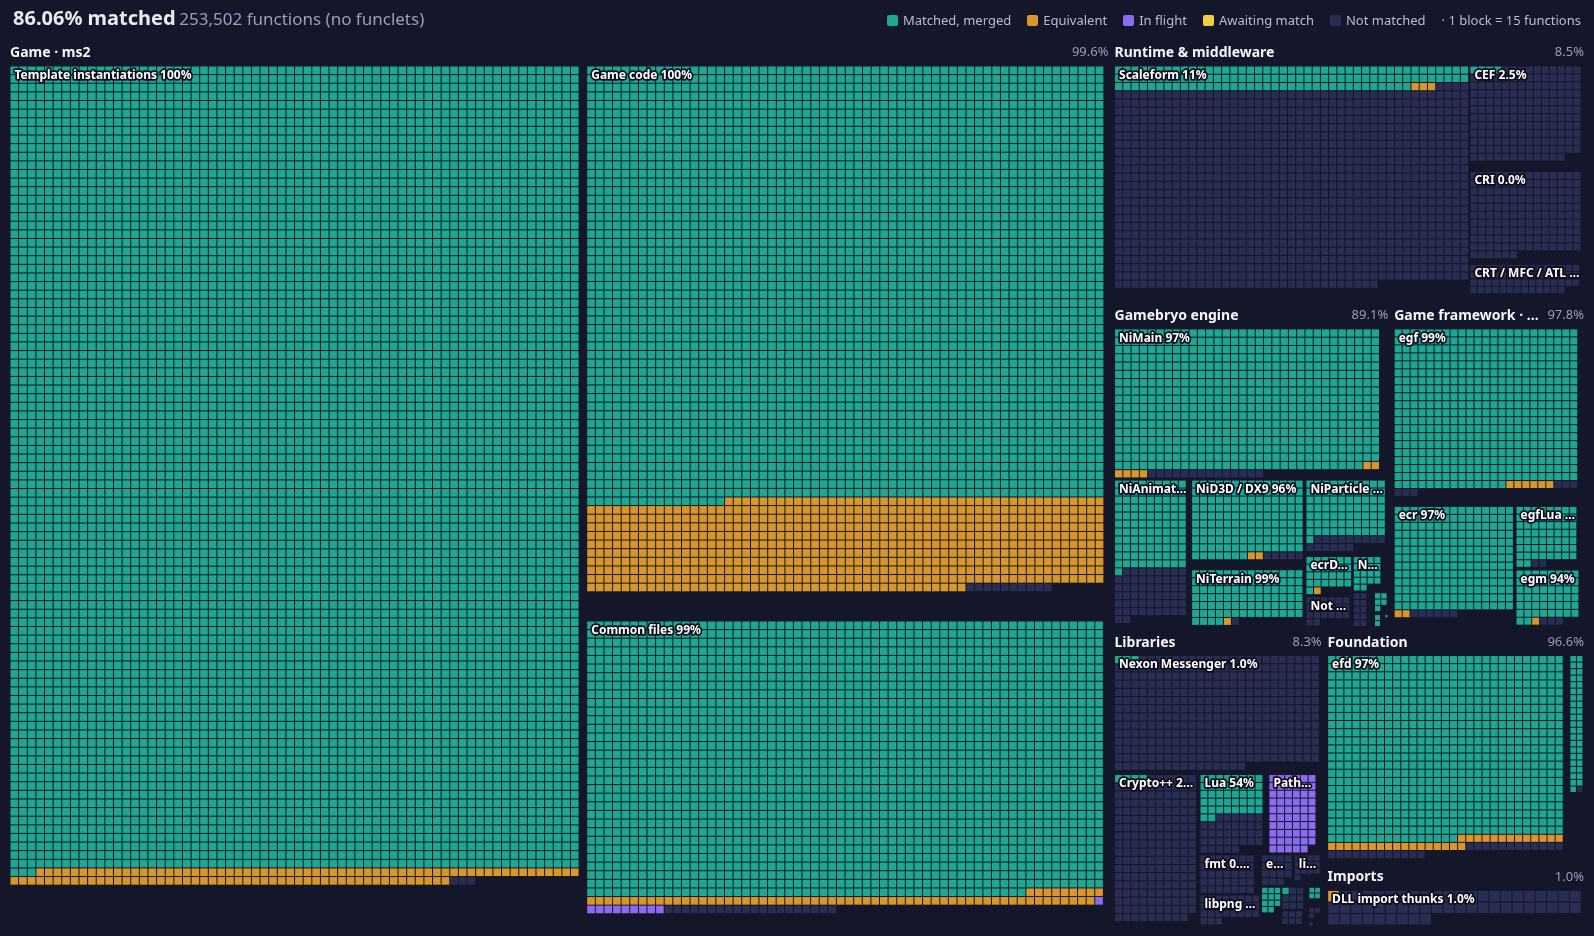
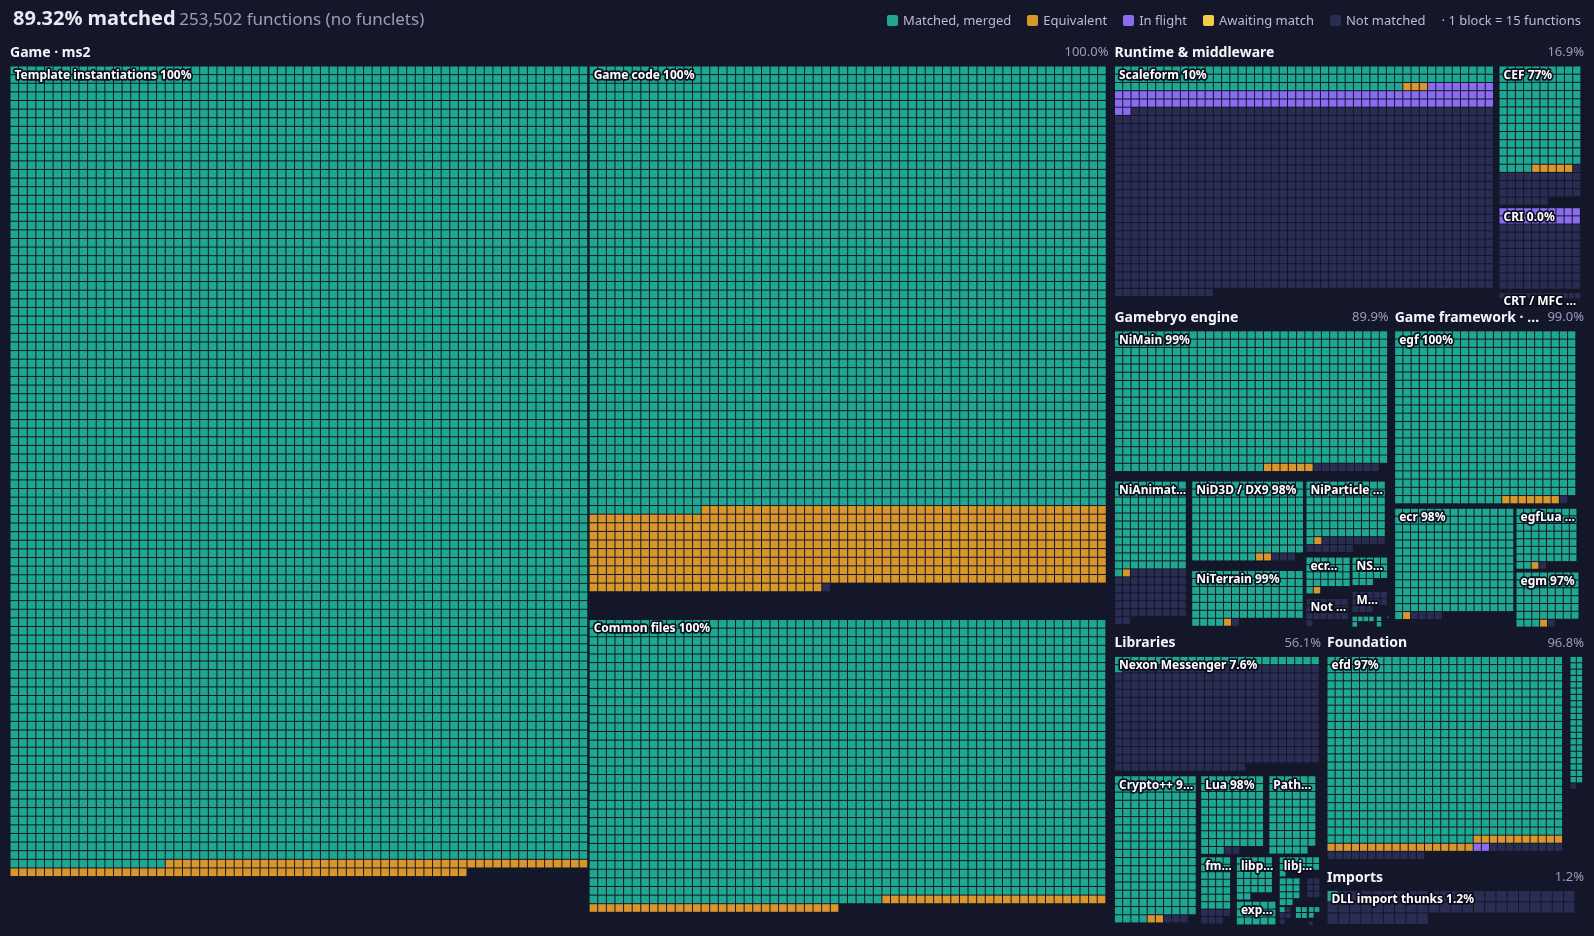
README: refresh progress image and table

Changed region(s): [[0.0, 0.062, 1.0, 0.9915], [0.9837, 0.9295, 1.0, 0.9915], [0.0, 0.0, 0.0307, 0.031]]

diff --git a/README.md b/README.md
@@ -25,14 +25,14 @@ Merged totals by area (functions in the original executable; regenerated on each
 <!-- progress:start -->
 | Area | Functions | Matched | Equivalent | Done |
 |---|---:|---:|---:|---:|
-| Game · ms2 | 178,794 | 166,005 (92.8%) | 12,138 (6.8%) | 99.6% |
-| Runtime & middleware | 22,787 | 1,893 (8.3%) | 40 (0.2%) | 8.5% |
-| Gamebryo engine | 16,651 | 14,699 (88.3%) | 137 (0.8%) | 89.1% |
-| Game framework · egf | 11,659 | 11,284 (96.8%) | 116 (1.0%) | 97.8% |
-| Libraries | 11,595 | 961 (8.3%) | 6 (0.1%) | 8.3% |
-| Foundation | 11,234 | 10,411 (92.7%) | 445 (4.0%) | 96.6% |
-| Imports | 782 | 7 (0.9%) | 1 (0.1%) | 1.0% |
-| **Total** | **253,502** | 205,260 (81.0%) | 12,883 (5.1%) | 86.1% |
+| Game · ms2 | 178,788 | 168,119 (94.0%) | 10,653 (6.0%) | 100.0% |
+| Runtime & middleware | 22,958 | 3,772 (16.4%) | 101 (0.4%) | 16.9% |
+| Gamebryo engine | 16,628 | 14,816 (89.1%) | 137 (0.8%) | 89.9% |
+| Game framework · egf | 11,596 | 11,346 (97.8%) | 137 (1.2%) | 99.0% |
+| Libraries | 11,528 | 6,447 (55.9%) | 24 (0.2%) | 56.1% |
+| Foundation | 11,222 | 10,430 (92.9%) | 437 (3.9%) | 96.8% |
+| Imports | 782 | 8 (1.0%) | 1 (0.1%) | 1.2% |
+| **Total** | **253,502** | 214,938 (84.8%) | 11,490 (4.5%) | 89.3% |
 <!-- progress:end -->
 
 ## Layout
